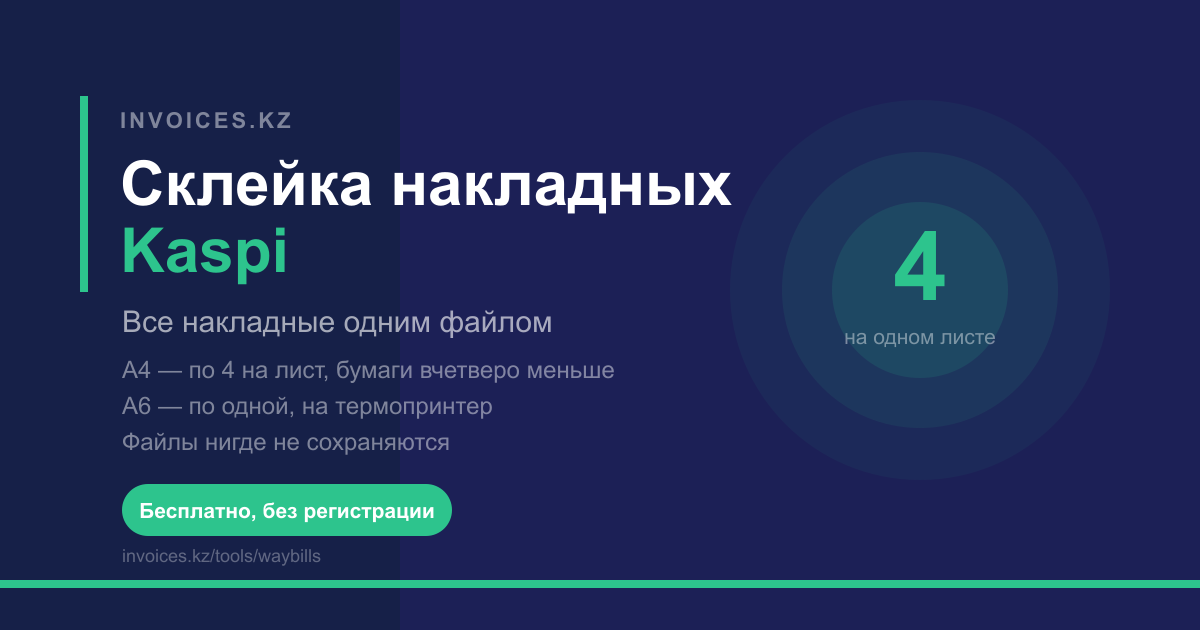
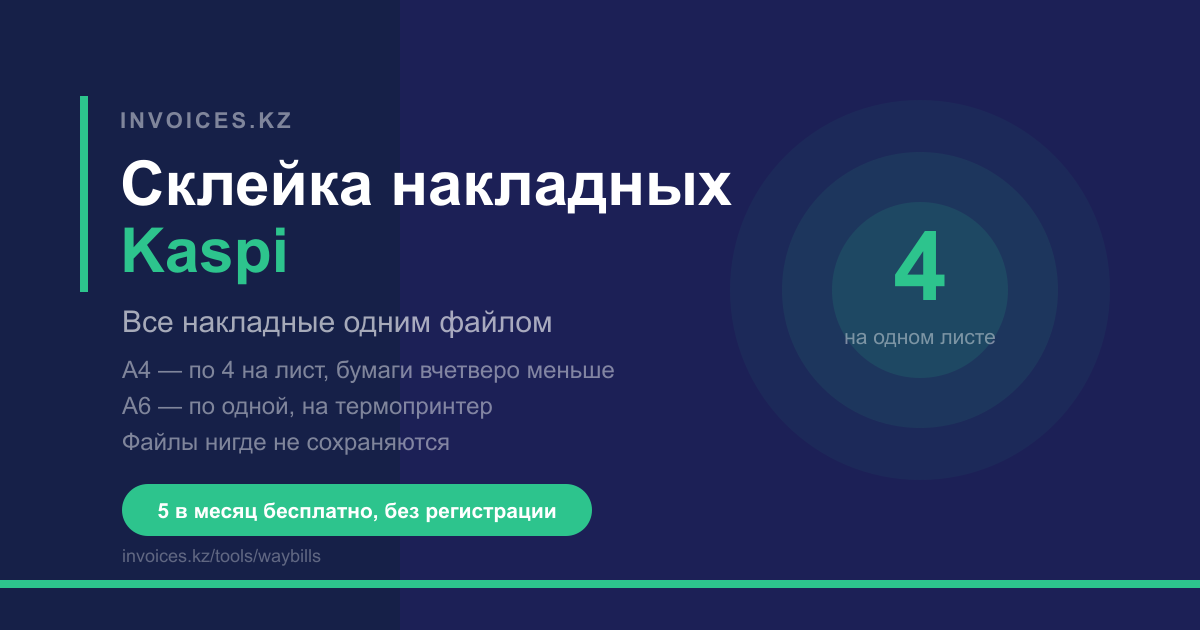
copy: гайд проверки контрагента — «три проверки в квартал» (ru/kk) вместо «в день»; превью склейки накладных для соцсетей — «Бесплатно · 5 в месяц» вместо «без регистрации», адрес картинки с ?v=2 для сброса кэша соцсетей

Changed region(s): [[0.1233, 0.754, 0.4933, 0.8746]]

diff --git a/src/app/guides/proverka-kontragenta/page.tsx b/src/app/guides/proverka-kontragenta/page.tsx
@@ -91,7 +91,7 @@ export default function Page() {
         Чтобы не ходить по пяти сайтам, мы собрали все проверки в один бесплатный инструмент:{' '}
         <Link href="/tools/kontragent">проверка контрагента по БИН</Link>. Вводите 12 цифр — получаете статус,
         неблагонадёжность, ликвидацию, налоговую задолженность в тенге и статус по НДС одним экраном, по тем
-        же официальным данным КГД и реестра. Три проверки в день — бесплатно, без регистрации.
+        же официальным данным КГД и реестра. Три проверки в квартал — бесплатно, без регистрации.
       </p>
 
       <h2>Красные флаги, при которых лучше не работать по предоплате</h2>

diff --git a/src/app/guides/kk/proverka-kontragenta/page.tsx b/src/app/guides/kk/proverka-kontragenta/page.tsx
@@ -91,7 +91,7 @@ export default function Page() {
         Бес сайтты аралап жүрмеу үшін біз барлық тексеруді бір тегін құралға жинадық:{' '}
         <Link href="/tools/kk/kontragent">БСН бойынша контрагентті тексеру</Link>. 12 цифрды енгізесіз — мәртебе,
         сенімсіздік, тарату, теңгемен салық қарызы және ҚҚС мәртебесі бір экранда, дәл сол МКК мен тізілімнің
-        ресми деректері бойынша. Күніне үш тексеру — тегін, тіркелусіз.
+        ресми деректері бойынша. Тоқсанына үш тексеру — тегін, тіркелусіз.
       </p>
 
       <h2>Алдын ала төлеммен жұмыс істемеген жөн қызыл жалаулар</h2>

diff --git a/src/app/tools/en/waybills/page.tsx b/src/app/tools/en/waybills/page.tsx
@@ -10,7 +10,7 @@ import { waybillsDict } from '../../waybills/dict'
 const LANG = 'en' as const
 const t = waybillsDict[LANG]
 
-export const metadata: Metadata = toolMetadata('waybills', LANG, t.seo)
+export const metadata: Metadata = toolMetadata('waybills', LANG, t.seo, '/og/tool-waybills.png?v=2') // v=2: «5 в месяц» вместо «без регистрации» — сброс кэша превью соцсетей
 
 export default function Page() {
   return (

diff --git a/src/app/tools/kk/waybills/page.tsx b/src/app/tools/kk/waybills/page.tsx
@@ -10,7 +10,7 @@ import { waybillsDict } from '../../waybills/dict'
 const LANG = 'kk' as const
 const t = waybillsDict[LANG]
 
-export const metadata: Metadata = toolMetadata('waybills', LANG, t.seo)
+export const metadata: Metadata = toolMetadata('waybills', LANG, t.seo, '/og/tool-waybills.png?v=2') // v=2: «5 в месяц» вместо «без регистрации» — сброс кэша превью соцсетей
 
 export default function Page() {
   return (

diff --git a/src/app/tools/waybills/page.tsx b/src/app/tools/waybills/page.tsx
@@ -10,7 +10,7 @@ import { waybillsDict } from './dict'
 const LANG = 'ru' as const
 const t = waybillsDict[LANG]
 
-export const metadata: Metadata = toolMetadata('waybills', LANG, t.seo)
+export const metadata: Metadata = toolMetadata('waybills', LANG, t.seo, '/og/tool-waybills.png?v=2') // v=2: «5 в месяц» вместо «без регистрации» — сброс кэша превью соцсетей
 
 export default function Page() {
   return (
